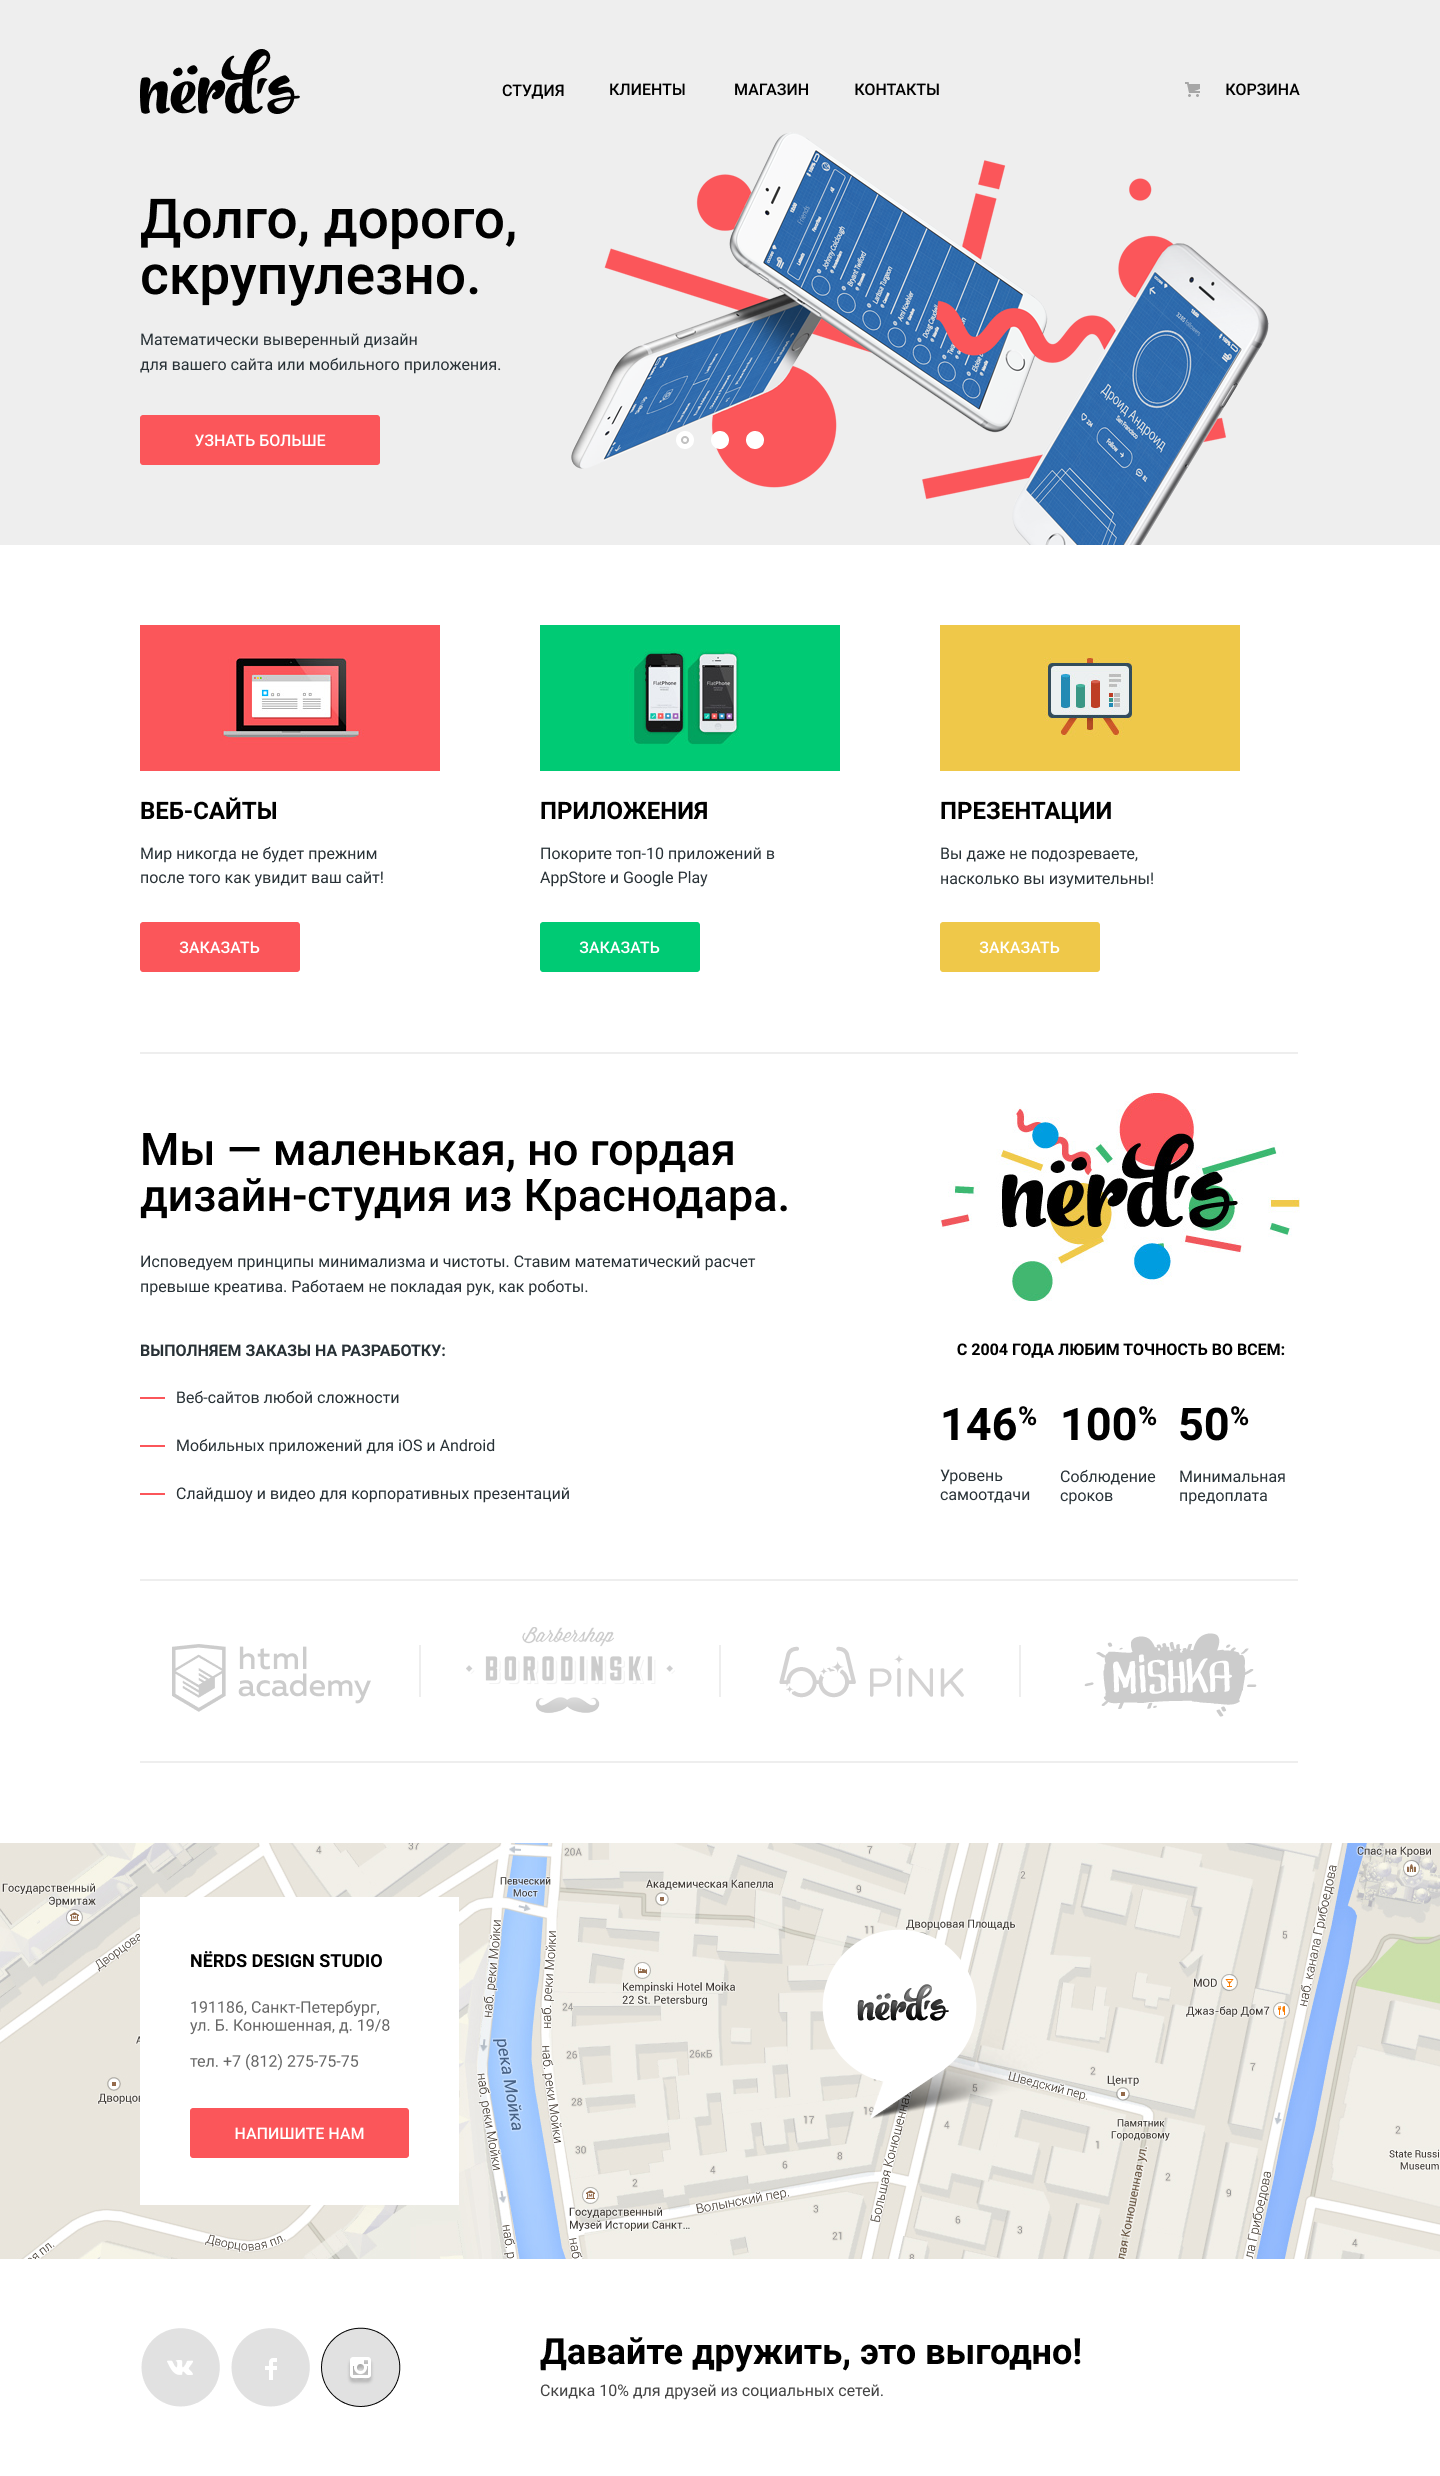
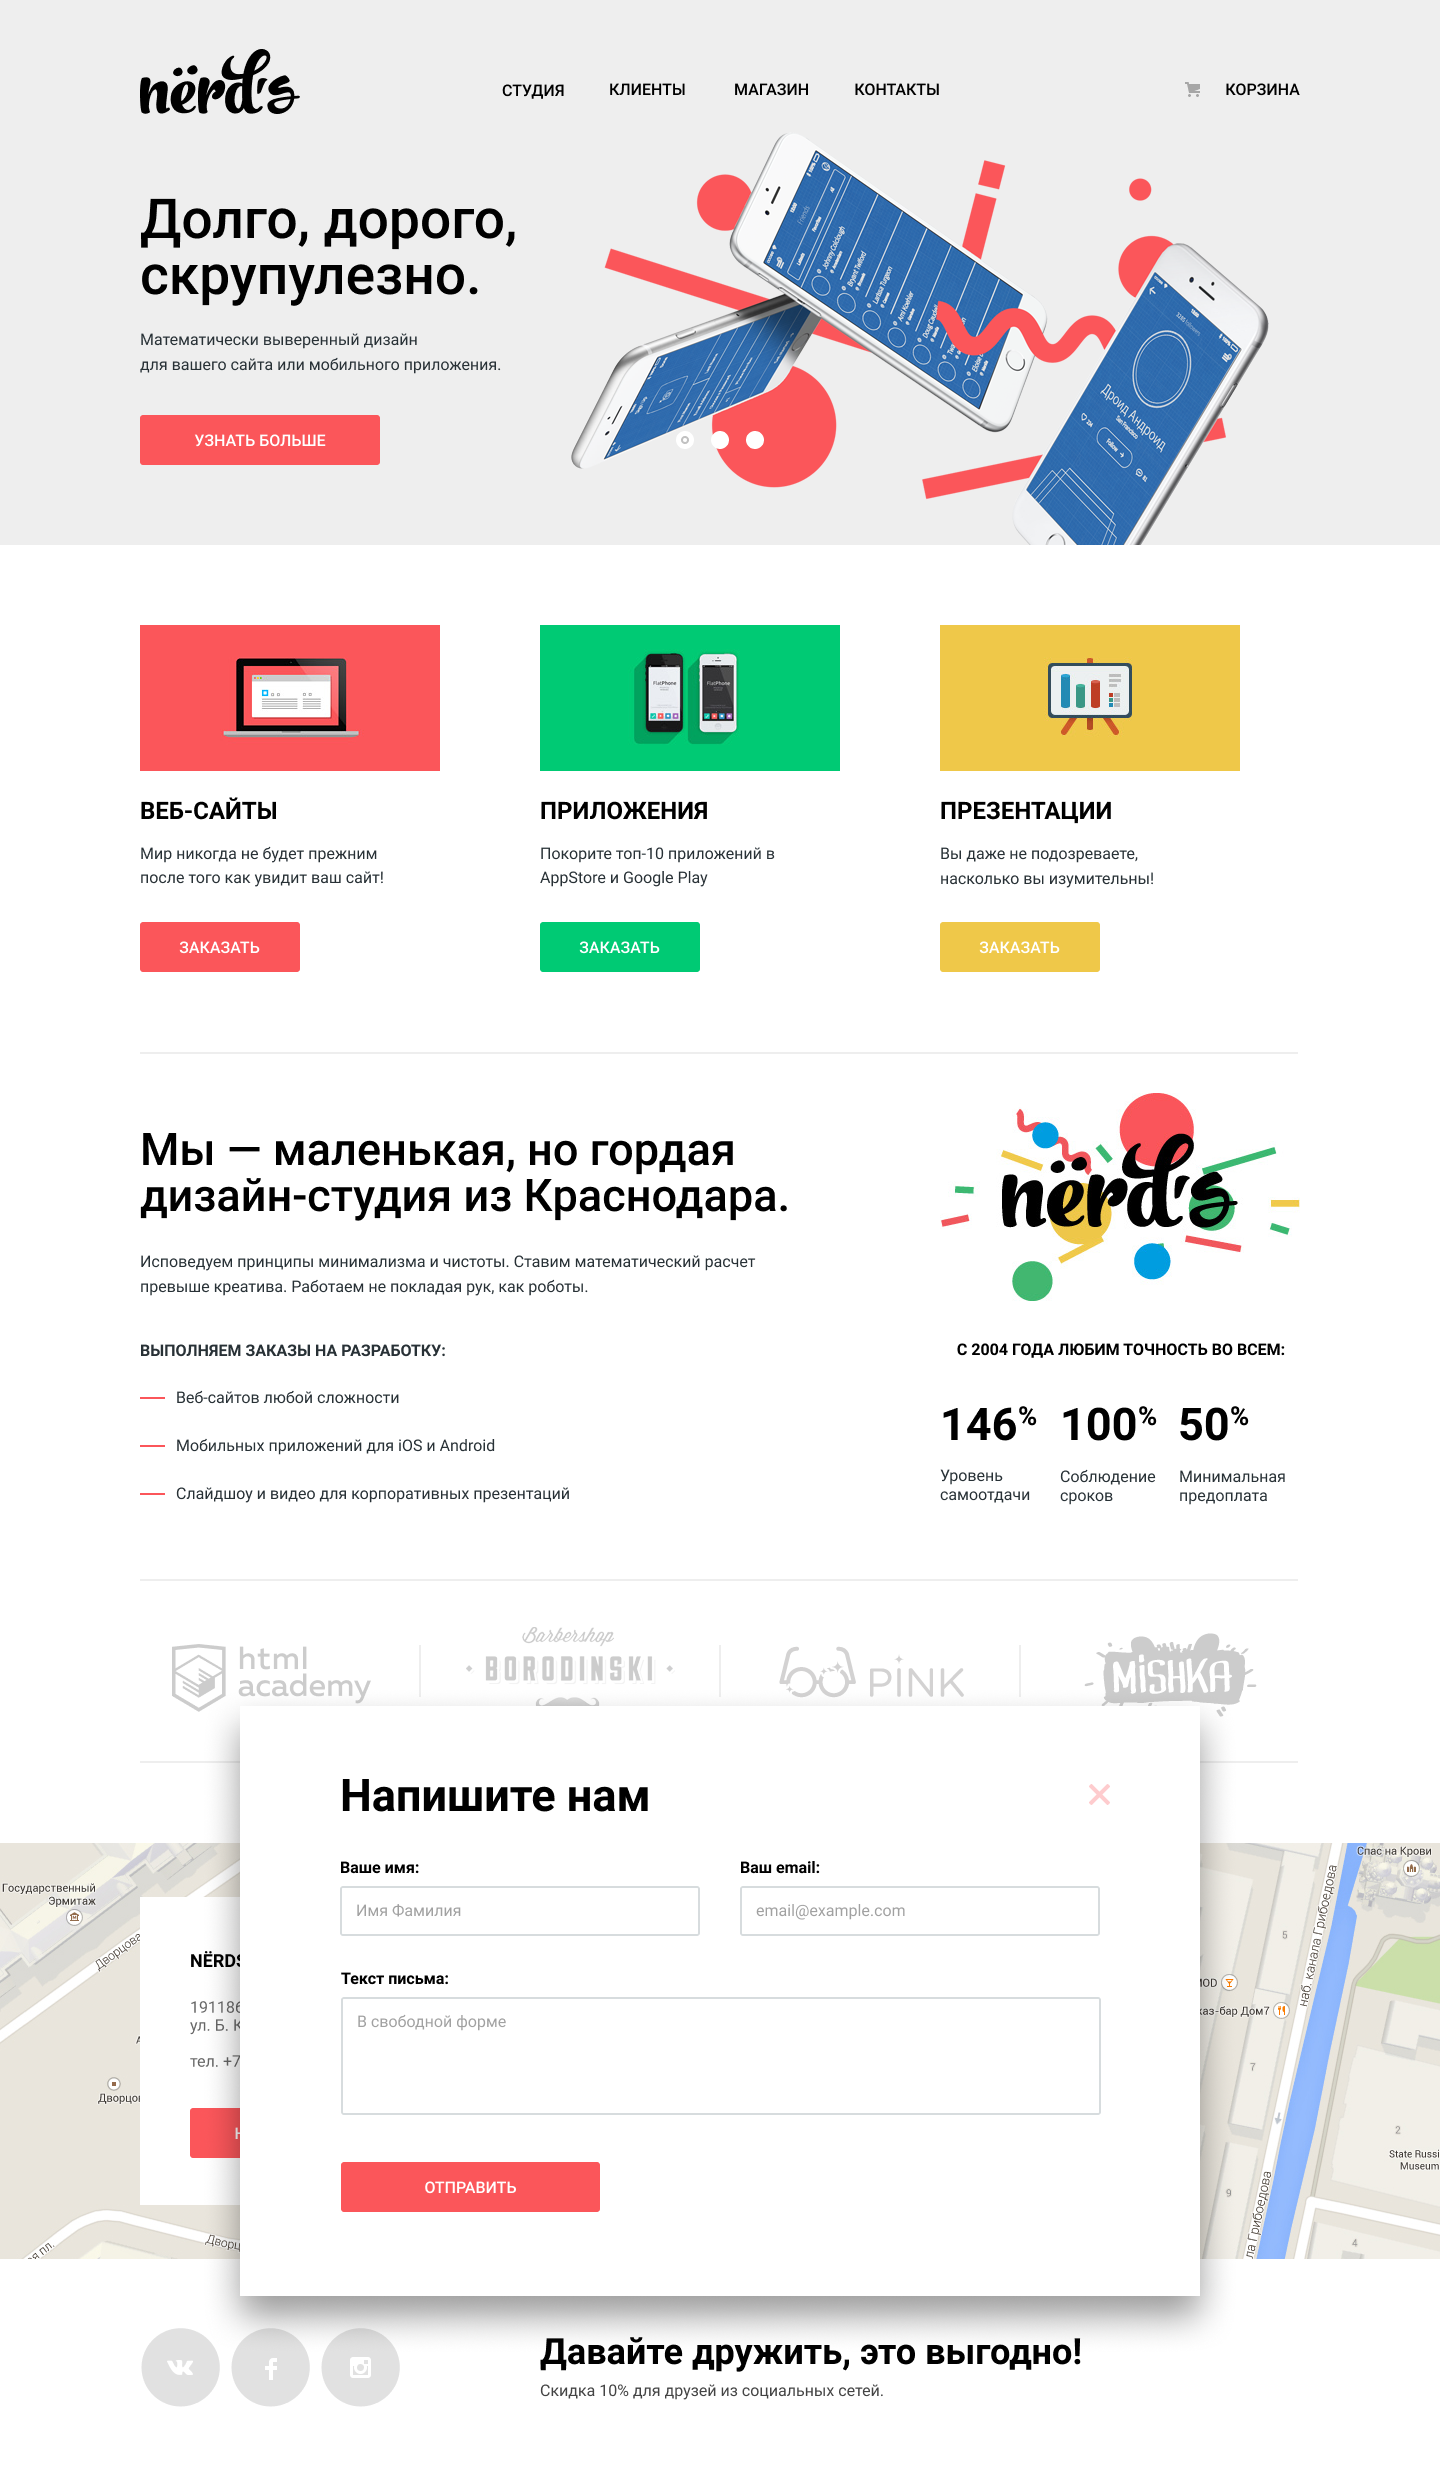
все

Changed region(s): [[0.1562, 0.6842, 0.8438, 0.9641]]

diff --git a/css/style.css b/css/style.css
@@ -540,29 +540,27 @@ a:focus .text-button{
 }
 
 
-.filter-input-checkbox + label::before {
-	content: "";
-	position: absolute;
-	left: -42px;
-	top: 0;
-	width: 18px;
-	height: 18px;
-	border: 2px solid #4D4D4D;;
-	border-radius: 3px;
-	opacity: 0.3;
+.filter-input-checkbox+label::before {
+    content: "";
+    width: 19px;
+    height: 19px;
+    position: absolute;
+    left: -35px;
+    top: 0;
+    border: 2px solid #A6A6A6;
+    border-radius: 3px;
 }
 
 .filter-input-checkbox:checked + label::after {
   content: "";
   position: absolute;
-  top: 2px;
-  left: -38px;
+  top: 1px;
+  left: -31px;
   width: 22px;
   height: 17px;
   background-image: url("../img/shape.svg");
   background-repeat: no-repeat;
   background-position: 0 0;
-  opacity: 0.3;
 }
 
 .filter-input-radio + label::before {
@@ -570,11 +568,10 @@ a:focus .text-button{
   position: absolute;
   left: -42px;
   top:-1px;
-  width: 18px;
-  height: 18px;
-  border: 4px solid #4D4D4D;;
+  width: 17px;
+  height: 17px;
+  border: 4px solid #A6A6A6;
   border-radius: 50%;
-  opacity: 0.3;
 }
 
 .filter-input-radio:checked + label::after {
@@ -582,17 +579,50 @@ a:focus .text-button{
   position: absolute;
   top: 7px;
   left: -34px;
-  width: 10px;
-  height:10px;
-  background-color: #4D4D4D;;
+  width: 9px;
+  height:9px;
+  background-color: #A6A6A6;
   border-radius: 50%;
-  opacity: 0.3;
 }
 
-.filter-input-checkbox:checked + label::after:hover {
-  opacity: 1;
+.filter-input-checkbox + label:hover::before,
+.filter-input-checkbox + label:active::before,
+.filter-input-checkbox + label:focus::before{
+    border-color: #4D4D4D;
 }
 
+.filter-input-checkbox + label:hover::after,
+.filter-input-checkbox + label:active::after,
+.filter-input-checkbox + label:focus::after{
+	background-image: url("../img/Shape-active.svg");
+	z-index: 100;
+	
+	
+}
+
+.filter-input-radio + label:hover::before,
+.filter-input-radio + label:active::before,
+.filter-input-radio + label:focus::before{
+    border-color: #4D4D4D;
+}
+
+.filter-input-radio + label:hover::after,
+.filter-input-radio + label:active::after,
+.filter-input-radio + label:focus::after {
+	background-color: #4D4D4D;
+}
+
+.filter-input-checkbox:disabled + label::before,
+.filter-input-radio:disabled + label::before {
+    border-color: #EDEDED;
+}
+.filter-input-checkbox:disabled + label::after {
+	background-image: url("../img/Shape-disabled.svg");
+}
+
+.filter-input-radio:disabled + label::after {
+	background-color: #EDEDED;
+}
 
 .heading-catalog {
 	display: flex;
@@ -744,7 +774,7 @@ a:focus .text-button{
 	text-transform: uppercase;
 }
 
-.catalog-filter fieldset {
+fieldset {
   border: 0 none; 
 }
 
@@ -796,9 +826,7 @@ iframe {
 	display: flex;
 	flex-direction: column;
 	text-align: left;
-	width: 319px;
-	height: 308px;
-	padding-left: 50px;
+	padding:0 50px 48px;
 	position: absolute;
 	bottom:61px;
 	left: 0px;
@@ -879,3 +907,103 @@ iframe {
 
 
 
+/*модальное окно*/
+.modal-window {
+	display: none;
+}
+
+.modal {
+	position:fixed;
+	min-width: 960px;
+	min-height: 590px;
+	top: 120px;
+	left:50%;
+	z-index: 40;
+    margin-left: -480px;
+	background: var(--basic-color);
+	box-shadow: 0px 20px 40px rgba(0, 0, 0, 0.4);
+}
+
+
+.modal-window .mail-form {
+	display:flex;
+	flex-direction: column;
+}
+
+.mail-form {
+	font: inherit;
+  	background-color: transparent;
+	width: 358px;
+	height: 45px;
+	border:2px solid #D7DCDE;
+	border-radius: 3px;
+}
+.mail-textarea {
+width: 760px;
+height: 118px;
+}
+
+.modal-close {
+	position: absolute;
+	top: 78px;
+	right: 90px;
+	width: 22px;
+	height: 22px;
+	background-color: transparent;
+	border: 0;
+	cursor: pointer;
+	background-image: url(../img/close-cross.svg);
+	background-repeat: no-repeat;
+	opacity: 0.3;
+  }
+  
+
+.modal-close:hover {
+	  opacity: 1;
+}
+
+.modal-close:active,
+.modal-close:focus {
+	opacity: 0.1;
+}
+
+.button-submit {
+	border: none;
+	width: 259px;
+	height: 50px;
+	border-radius: 3px;
+	color: var(--basic-color)
+}
+
+.mail-container label {
+	font-weight: bold;
+	line-height: 18px;
+}
+
+.mail-container {
+	display: grid;
+	grid-template-columns: auto;
+	grid-template-rows: min-content min-content auto min-content;
+	padding: 63px 0 0 100px;
+}
+
+.window-heading {
+	font-weight: bold;
+	font-size: 45px;
+	line-height: 53px;
+	margin-top: 0;
+	margin-bottom: 20px;
+}
+
+.name-email {
+	display:flex;
+}
+
+.name-email p {
+	margin-right: 40px;
+}
+	
+.textarea {
+	margin-bottom: 40px;
+}
+	

diff --git a/catalog.html b/catalog.html
@@ -66,7 +66,7 @@
                   <legend class="legend-heading">Сетка:</legend>
                   <ul>
                     <li class="filter-option filter-radio">
-                      <input class="visualy-hidden filter-input-radio" type="radio" id="filter-adaptive-grid" name="grid" checked>
+                      <input class="visualy-hidden filter-input-radio" type="radio" id="filter-adaptive-grid" name="grid" checked disabled>
                       <label for="filter-adaptive-grid">Адаптивная</label>
                     </li>
                     <li class="filter-option filter-radio">
@@ -91,7 +91,7 @@
                       <label for="filter-benefits-block">Блок преимуществ</label>
                     </li>
                     <li class="filter-option filter-checkbox">
-                      <input class="visualy-hidden filter-input-checkbox" type="checkbox" id="filter-news" name="news" checked>
+                      <input class="visualy-hidden filter-input-checkbox" type="checkbox" id="filter-news" name="news" checked disabled>
                       <label for="filter-news">Новости</label>
                     </li>
                     <li class="filter-option filter-checkbox">
@@ -252,25 +252,29 @@
         </section>  
       </div>
     </footer>
-    <div>
+    <section class="modal modal-window">
       <form action="https://echo.htmlacademy.ru" method="get">
-          <h2>Напишите нам</h2>
-          <p>
-            <label for="first-name">Ваше имя:</label>
-            <input type="text" id="first-name" name="first-name" placeholder="Имя Фамилия">
-          </p>
-          <p>
-            <label for="first-name">Ваш e-mail:</label>
-            <input type="email" id="email" name="email" placeholder="email@example.com">
-          </p>
-          <p>
+        <div class="mail-container">
+          <h2 class="window-heading">Напишите нам</h2>
+          <div class="name-email">
+            <p>
+              <label for="first-name">Ваше имя:</label>
+              <input class="mail-form" type="text" id="first-name" name="first-name" placeholder="Имя Фамилия">
+            </p>
+            <p>
+              <label for="first-name">Ваш e-mail:</label>
+              <input class="mail-form " type="email" id="email" name="email" placeholder="email@example.com">
+            </p>
+          </div>
+          <p class="textarea">
             <label for="text-mail">Текст письма:</label>
-            <textarea id="text-mail" name="text-mail" placeholder="В свободной форме"></textarea>
+            <textarea class="mail-form mail-textarea" id="text-mail" name="text-mail" placeholder="В свободной форме"></textarea>
           </p>
-          <button type="button">Закрыть</button>
-          <button type="submit">Отправить</button>
+          <button class="order order-first button-submit" type="submit">Отправить</button>
+        </div>  
       </form>
-    </div>
+      <button class="modal-close" type="button" aria-label="Закрыть"></button>
+    </section>
     <script src="app.js"></script>
   </body>
 </html>

diff --git a/index.html b/index.html
@@ -218,25 +218,29 @@
         </section>  
       </div>
     </footer>
-    <div>
+    <section class="modal modal-window">
       <form action="https://echo.htmlacademy.ru" method="get">
-          <h2>Напишите нам</h2>
-          <p>
-            <label for="first-name">Ваше имя:</label>
-            <input type="text" id="first-name" name="first-name" placeholder="Имя Фамилия">
-          </p>
-          <p>
-            <label for="first-name">Ваш e-mail:</label>
-            <input type="email" id="email" name="email" placeholder="email@example.com">
-          </p>
-          <p>
+        <div class="mail-container">
+          <h2 class="window-heading">Напишите нам</h2>
+          <div class="name-email">
+            <p>
+              <label for="first-name">Ваше имя:</label>
+              <input class="mail-form" type="text" id="first-name" name="first-name" placeholder="Имя Фамилия">
+            </p>
+            <p>
+              <label for="first-name">Ваш e-mail:</label>
+              <input class="mail-form " type="email" id="email" name="email" placeholder="email@example.com">
+            </p>
+          </div>
+          <p class="textarea">
             <label for="text-mail">Текст письма:</label>
-            <textarea id="text-mail" name="text-mail" placeholder="В свободной форме"></textarea>
+            <textarea class="mail-form mail-textarea" id="text-mail" name="text-mail" placeholder="В свободной форме"></textarea>
           </p>
-          <button type="button">Закрыть</button>
-          <button type="submit">Отправить</button>
+          <button class="order order-first button-submit" type="submit">Отправить</button>
+        </div>  
       </form>
-    </div>
+      <button class="modal-close" type="button" aria-label="Закрыть"></button>
+    </section>
     <script src="app.js"></script>
   </body>
 </html>

diff --git a/blank.html b/blank.html
@@ -71,25 +71,29 @@
         </section>  
       </div>
     </footer>
-    <div>
+    <section class="modal modal-window">
       <form action="https://echo.htmlacademy.ru" method="get">
-          <h2>Напишите нам</h2>
-          <p>
-            <label for="first-name">Ваше имя:</label>
-            <input type="text" id="first-name" name="first-name" placeholder="Имя Фамилия">
-          </p>
-          <p>
-            <label for="first-name">Ваш e-mail:</label>
-            <input type="email" id="email" name="email" placeholder="email@example.com">
-          </p>
-          <p>
+        <div class="mail-container">
+          <h2 class="window-heading">Напишите нам</h2>
+          <div class="name-email">
+            <p>
+              <label for="first-name">Ваше имя:</label>
+              <input class="mail-form" type="text" id="first-name" name="first-name" placeholder="Имя Фамилия">
+            </p>
+            <p>
+              <label for="first-name">Ваш e-mail:</label>
+              <input class="mail-form " type="email" id="email" name="email" placeholder="email@example.com">
+            </p>
+          </div>
+          <p class="textarea">
             <label for="text-mail">Текст письма:</label>
-            <textarea id="text-mail" name="text-mail" placeholder="В свободной форме"></textarea>
+            <textarea class="mail-form mail-textarea" id="text-mail" name="text-mail" placeholder="В свободной форме"></textarea>
           </p>
-          <button type="button">Закрыть</button>
-          <button type="submit">Отправить</button>
+          <button class="order order-first button-submit" type="submit">Отправить</button>
+        </div>  
       </form>
-    </div>
+      <button class="modal-close" type="button" aria-label="Закрыть"></button>
+    </section>
     <script src="app.js"></script>
   </body>
 </html>
